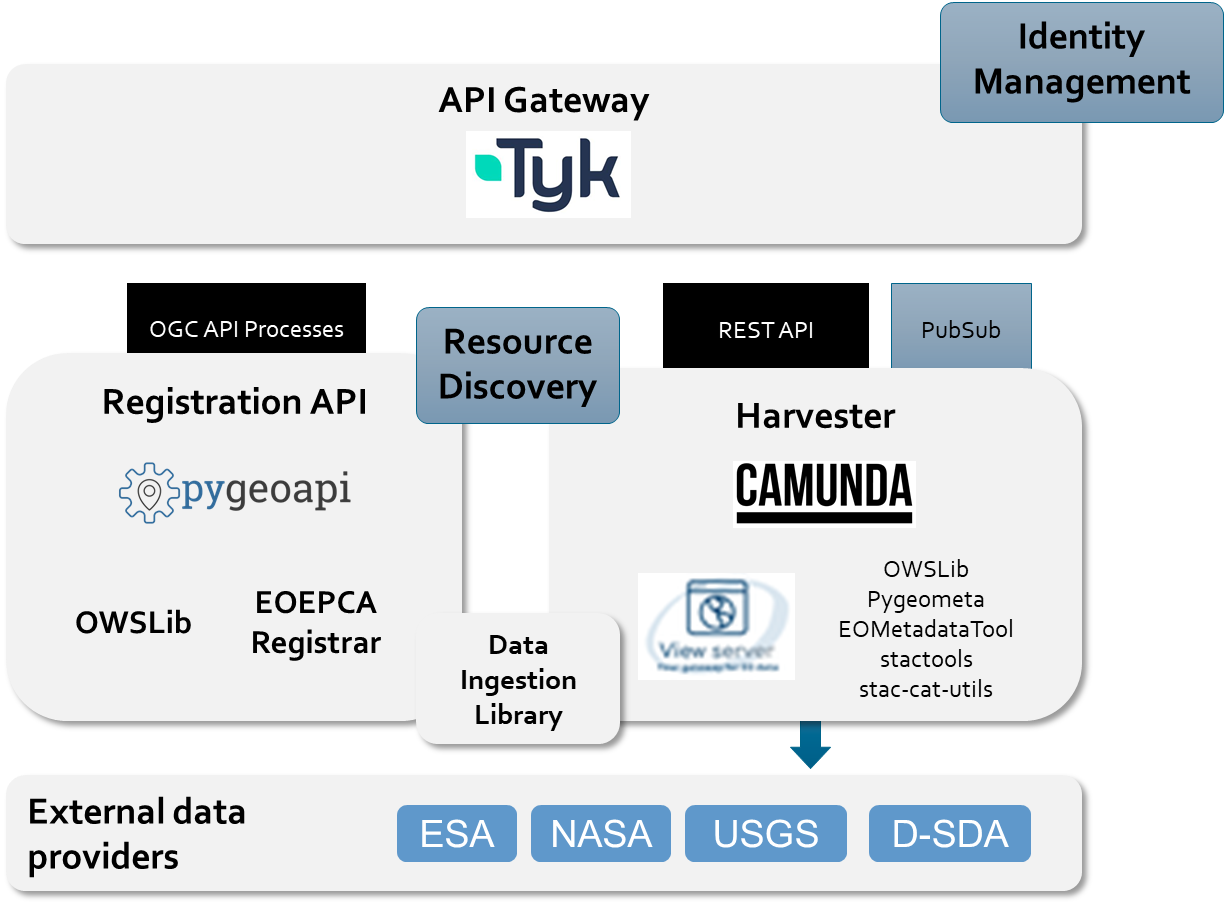
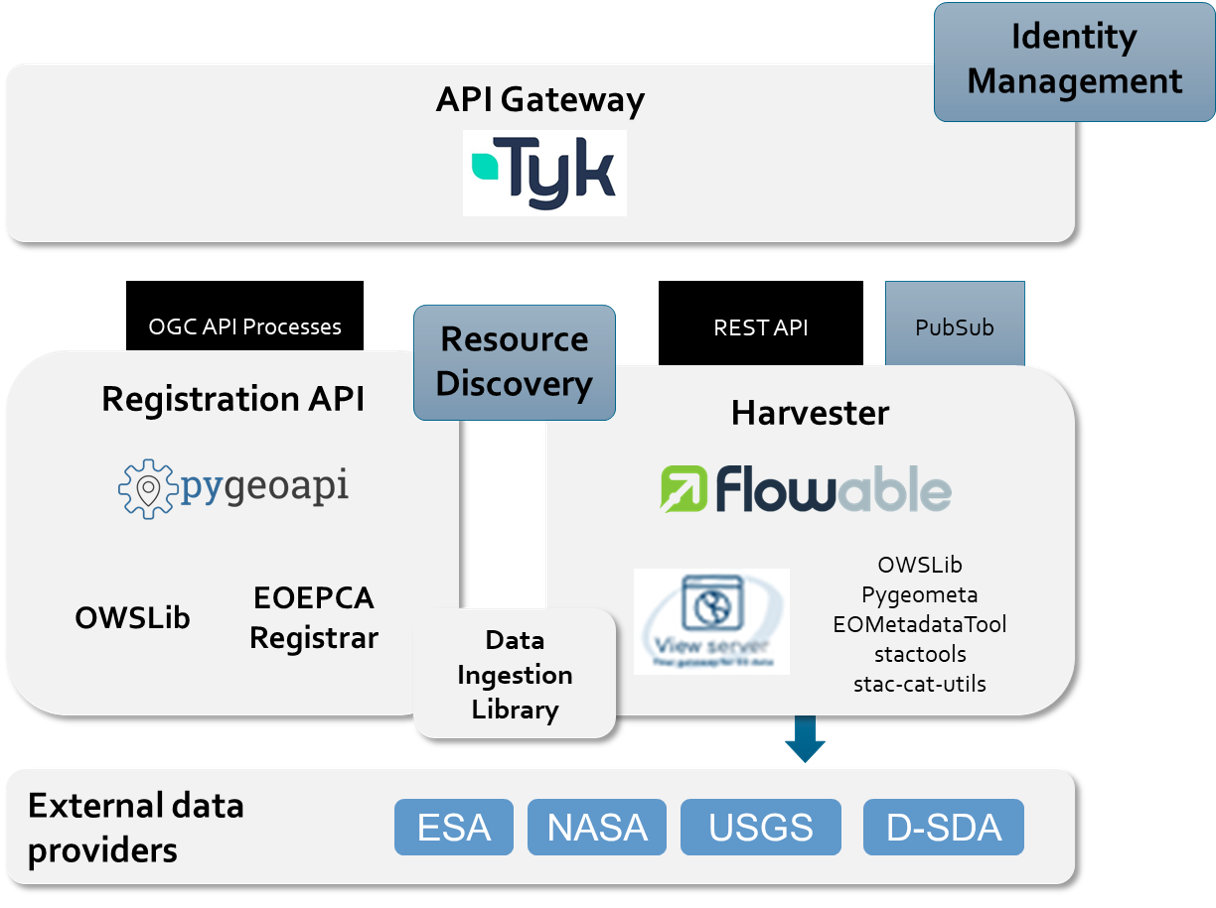
Refactor docs site structure

Changed region(s): [[0.5312, 0.4934, 0.7812, 0.5859]]

diff --git a/docs/getting-started/quick-start.md b/docs/getting-started/quick-start.md
@@ -1,3 +1,22 @@
 # Quick Start
 
-Quick start instructions - including installation, e.g. of a local instance.
+To try out the Resource Registration building block you can install it locally or deploy the full Kubernetes setup as described in the [EOEPCA Deployment Guide](https://deployment-guide.docs.eoepca.org/current/building-blocks/resource-registration/).
+
+## Registration API
+
+To setup a local copy of the Registration API follow the instructions provided [here](https://github.com/EOEPCA/registration-api?tab=readme-ov-file#getting-started). This component is build upon the [pygeoapi](https://pygeoapi.io/) project to offer the [OGC API - Processes](https://ogcapi.ogc.org/processes/) to the user. An introduction to the OGC API Processes can be found in the Registration API [User Guide](../../user-guide/registration-api-usage/).
+
+## Harvester
+
+You can setup a local copy of the Harvester component using Docker and Docker Compose:
+
+1. Run the Flowable workflow engine on your machine as described in the [Flowable Docker documentation](https://github.com/flowable/flowable-engine/tree/main/docker).
+3. Clone the [Harvester Github repository](https://github.com/EOEPCA/registration-harvester.git).
+4. Deploy the BPMN workflow definitions contained in the `workflows` directory on your local Flowable instance. 
+5. The  `docker-compose.yml` in the project root directory defines the worker processes for the workflows. Adapt the workflow-specific configuration files to your enviroment and start everything with `docker compose up`.
+
+!!! info "USGS M2M user account"
+    The Landsat workflow searches the [Landsat STAC API](https://landsatlook.usgs.gov/stac-server) and downloads the data from the [USGS Machine-to-Machine (M2M) API](https://m2m.cr.usgs.gov/). To access this system, a M2M user accout is required which can be created [here](https://ers.cr.usgs.gov/register). The credentials must be passed as the environment variables `M2M_USER` and `M2M_PASSWORD` to the worker processes.
+
+!!! info "CDSE user account"
+    The Sentinel workflow searches and downloads the data from the [CDSE OData API](https://datahub.creodias.eu/odata/v1). To access this API, a CDSE user accout is required which can be created [here](https://identity.dataspace.copernicus.eu/auth/realms/CDSE/login-actions/registration?client_id=cdse-public&tab_id=0kmNL363Fs4). The credentials must be passed as the environment variables `CDSE_USER` and `CDSE_PASSWORD` to the worker processes.

diff --git a/docs/design/harvester-design.md b/docs/design/harvester-design.md
@@ -1,4 +1,4 @@
-# Harvester
+# Design
 
 The harvester is implemented as workflows in the Flowable BPMN platform. Flowable Platform is a flexible framework for workflow and process automation. Its core is a native Business Process Modelling Notation (BPMN) 2.0 process engine that runs inside the Java Virtual Machine. Workflows need to be defined with the BPMN specification that supports parallel workflow steps, branching, error handling, etc. A workflow step can be set to type “external” to allow an individual worker to fetch tasks for a specific workflow step. This worker connects to the REST API, fetches tasks, and returns the status (e.g., completed, failed, error). Failed workflow steps can be automatically retried from the Flowable process engine. Errors can be modelled in the BPMN diagram, e.g., asking an operator how to proceed as a manual user task.
 

diff --git a/docs/user-guide/harvester-usage.md b/docs/user-guide/harvester-usage.md
@@ -1,0 +1,26 @@
+# Harvester - User Guide
+
+## Core Concepts
+
+### Workflow engine
+
+### Workflow definition
+
+### Workflow instance
+
+### Worker
+
+## Built-in workflows
+
+### Landsat
+
+### Sentinel 
+
+## Developing workflows
+
+This section descibes how to create your own workflow und run it with the Harvester.
+
+### Design
+### Submitting a workflow definition
+### Executing a workflow
+

diff --git a/docs/user-guide/registration-api-usage.md b/docs/user-guide/registration-api-usage.md
@@ -1,4 +1,4 @@
-# Usage
+# Registration API - User Guide
 
 ## Introduction
 
